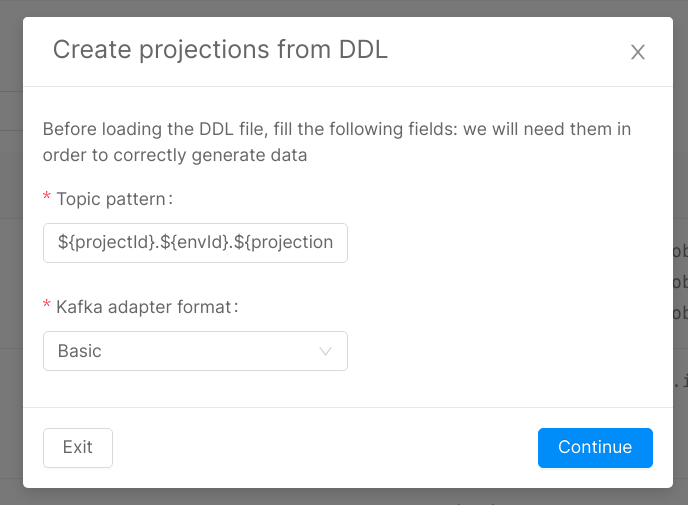
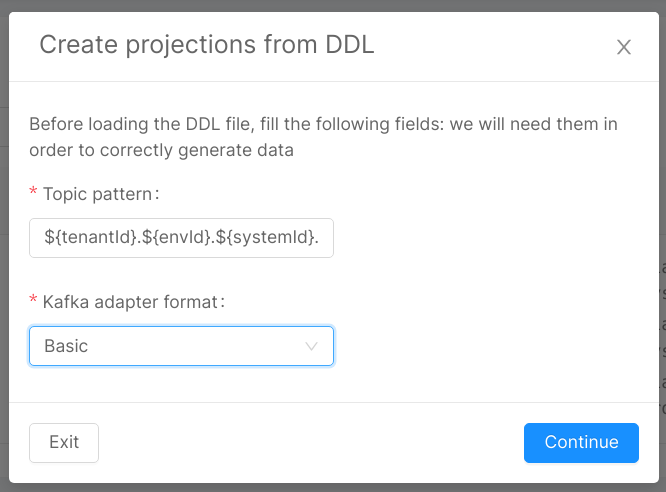
Feat/fast data topic naming convention

Changed region(s): [[0.0, 0.0, 1.0, 1.0]]

diff --git a/docs/fast_data/setup_fast_data.md b/docs/fast_data/setup_fast_data.md
@@ -33,6 +33,47 @@ Provided that the client's **CDC** (Change Data Capture) supports Snappy compres
 Snappy, like every other compression and decompression algorithm, will always increase the delay between production and consumption of the message, hence it is not advised for strong real-time relying applications; on the other hand it is well recommended for initial loads which tend to be a lot heavier.
 :::
 
+## Topic naming convention
+
+In order to work properly, the Fast Data infrastructure will need multiple Kafka topics, hence following a naming convention is useful.
+The following is the naming convention we recommend in order to work with the Fast Data and its tools properly.
+
+### Ingestion topic from CDC to Mongo
+
+**producer**: the system producing its own events
+
+`<tenant>.<environment>.<source-system>.<projection>.ingestion`
+
+An example:
+
+```sh
+test-tenant.PROD.system-name.test-projection.ingestion
+```
+
+### Topic for Single View Creator trigger
+
+**producer**: Real Time Updater
+
+`<tenant>.<environment>.<mongo-database>.<single-view-name>.sv-trigger`
+
+An example:
+
+```sh
+test-tenant.PROD.restaurants-db.reviews-sv.sv-trigger
+```
+
+### Topic for verified update of the Single View
+
+**producer**: Single View Creator
+
+`<tenant>.<environment>.<mongo-database>.<single-view-name>.sv-update`
+
+An example:
+
+```sh
+test-tenant.PROD.restaurants-db.reviews-sv.sv-update
+```
+
 ## Create topics
 
 You can create a topic using Kafka cli, or if you use the Confluent Cloud you can use the user interface.
@@ -54,7 +95,7 @@ If you don't have a cluster, create one following this [documentation](https://d
 On the left menu, click on `Topics` and `Add a topic` button. Insert the topic name and the number of partitions required. Here you could create with defaults or customize topic settings.
 
 :::info
-We suggest to use a topic name like `project.environment.projection-json`
+We suggest to use a topic name like `tenant.environment.system.projection.ingestion`
 :::
 
 > *Note*: if this documentation seems outdated, follow the [official one](https://docs.confluent.io/cloud/current/client-apps/topics/manage.html#create-a-topic)
@@ -87,7 +128,7 @@ First, you should [install the Confluent Cli](https://docs.confluent.io/ccloud-c
 Once installed, to create a new topic (with some custom config) run:
 
 ```sh
-ccloud kafka topic create --partitions 3 --cluster CLUSTER_ID --config cleanup.policy=compact --config retention.ms=2592000000 'project.environment.projection-json';
+ccloud kafka topic create --partitions 3 --cluster CLUSTER_ID --config cleanup.policy=compact --config retention.ms=2592000000 'tenant.environment.system.projection.ingestion';
 ```
 
 You should create a service account if you have not already [following this guide](#create-service-account)
@@ -95,8 +136,8 @@ You should create a service account if you have not already [following this guid
 After the creation of the topic, you can associate the ACL to a service account:
 
 ```sh
-ccloud kafka acl create --allow --service-account SERVICE_ACCOUNT --operation WRITE --topic 'project.environment.projection-json' --cluster CLUSTER_ID;
-ccloud kafka acl create --allow --service-account SERVICE_ACCOUNT --operation READ --topic 'project.environment.projection-json' --cluster CLUSTER_ID;
+ccloud kafka acl create --allow --service-account SERVICE_ACCOUNT --operation WRITE --topic 'tenant.environment.system.projection.ingestion' --cluster CLUSTER_ID;
+ccloud kafka acl create --allow --service-account SERVICE_ACCOUNT --operation READ --topic 'tenant.environment.system.projection.ingestion' --cluster CLUSTER_ID;
 ```
 
 ## Set up a Kafka consumer

diff --git a/docs/fast_data/real_time_updater/manual_configuration.md b/docs/fast_data/real_time_updater/manual_configuration.md
@@ -311,7 +311,7 @@ where:
 
 - `MY_PROJECTION` is the name of the collection whose topic has received the message from the CDC.
 - `MY_SINGLE_VIEW` is the single view that have to be updated
-- `MY_TOPIC` is the topic where the projection change need to be sent
+- `MY_TOPIC` is the topic where the projection change need to be sent (for further information about the naming convention adopted for this topic, [click here](../setup_fast_data.md#topic-for-svc-trigger))
 
 Example:
 
@@ -320,21 +320,21 @@ Example:
     "registry-json": {
         "projectionChanges": {
             "sv_pointofsale": {
-                "topic": "my-project.development.sv-pointofsale-pc-json",
+                "topic": "my-tenant.development.my-database.sv-pointofsale.sv-trigger",
             }
         }
     },
     "another-projection": {
         "projectionChanges": {
             "sv_customer": {
-                "topic": "my-project.development.sv-customer-pc-json"
+                "topic": "my-tenant.development.my-database.sv-customer.sv-trigger"
             }
         }
     }
 }
 ```
 
-When a message about `registry-json` happens, the projection changes will be saved on mongo and it will be sent to the Kafka topic `my-project.development.sv-pointofsale-pc-json` as well.
+When a message about `registry-json` happens, the projection changes will be saved on mongo and it will be sent to the Kafka topic `my-tenant.development.my-database.sv-pointofsale.sv-trigger` as well.
 
 ## Kafka projection updates configuration
 
@@ -471,7 +471,7 @@ Example:
     },
     "changes": [{
         "state": "NEW",
-        "topic": "my-topic.development.foobar-json",
+        "topic": "my-topic.development.my-system.my-projection.ingestion",
         "partition": 0,
         "timestamp": "2021-11-19T16:22:07.031Z",
         "offset": "14",
@@ -508,7 +508,7 @@ Example:
     "timestamp": "2021-11-19T16:22:07.031Z",
     "updatedAt": "2021-11-19T16:22:07.052Z",
     "__internal__kafkaInfo": {
-        "topic": "my-topic.development.foobar-json",
+        "topic": "my-topic.development.my-system.my-projection.ingestion",
         "partition": 0,
         "timestamp": "2021-11-19T16:22:07.031Z",
         "offset": "14",

diff --git a/docs/fast_data/create_projection.md b/docs/fast_data/create_projection.md
@@ -52,10 +52,11 @@ Here, you can modify the default name of the topics per environment.
 The topics names are pre-compiled with our suggested name:
 
 ```txt
-projectId.environmentId.projectionName-json
+tenantId.environmentId.systemId.projectionName.ingestion
 ```
 
-where `projectId`, `environmentId` and `projectionName` are filled with, respectively, the id of the console project, the id of the associated environment and the name of the projection.
+where `tenantId`, `environmentId`, `systemId` and `projectionName` are filled with, respectively, the id of the tenant of the project, the id of the associated environment, the id of the system which owns the projection and the name of the projection.
+For more information about the naming convention used for the topics, [click here](./setup_fast_data.md#ingestion-topic-from-cdc-to-mongo)
 
 ### Projection metadata
 
@@ -168,11 +169,13 @@ On the first page, you will need to provide two information:
 
 The topic pattern is a template string that will be interpolated for each combination of environment and projection to generate the topic prefixes. The syntax used is the same of the intuitive [javascript template strings](https://developer.mozilla.org/en-US/docs/Web/JavaScript/Reference/Template_literals), with the following variables:
 
+* tenantId
 * projectId
+* systemId
 * projectionId
 * envId
 
-The default value for ths input is the same as the default used by the Console, which is `${projectId}.${envId}.${projectionId}-json`.
+The default value for ths input is the same as the default used by the Console, which is `${tenantId}.${envId}.${systemId}.${projectionId}.ingestion`.
 
 ##### Kafka adapter format
 

diff --git a/docs/development_suite/api-console/api-design/rbac_policies.md b/docs/development_suite/api-console/api-design/rbac_policies.md
@@ -25,7 +25,8 @@ package policies
 
 ## Policies input data
 
-In your policies you can use the rego `input` variable, that is structured as follows:
+In your policies you can use the rego `input` variable. This variable contains all the user information as well as the information of the request and the eventual response if configured.
+Its structure is as follows:
 
 ```json
 {
@@ -39,6 +40,7 @@ In your policies you can use the rego `input` variable, that is structured as fo
     "query":   Object {
       String: Array[String]
     },
+    "body": Object{},
   },
   "response": {
     "body": Object{}
@@ -54,6 +56,9 @@ In your policies you can use the rego `input` variable, that is structured as fo
   "clientType": String
 }
 ```
+:::info
+  The request body is available only for requests with method: `POST` `PATCH` `PUT` `DELETE` with `application/json` Content Type. The response body instead is set only if properly configured  in the `X-permssion` object.
+:::
 
 :::info
 `bindings` and `roles` object contain only data relative to the user that is making the request **if and only if** is authenticated. Otherwise those two object will be present but empty. For the structure of the two object please refer to the [RBAC data models](./rbac#rbac-storage) section.

diff --git a/docs/fast_data/single_view_creator/manual_configuration.md b/docs/fast_data/single_view_creator/manual_configuration.md
@@ -237,7 +237,7 @@ For both functions, the output is composed of an object containing two fields:
 - `old` which contains the old Single View
 - `new` which contains the new Single View
 
-These values will be the respectively the `before` and `after` of the message sent to the `KAFKA_BA_TOPIC` topic, that is the topic responsible for tracking any result of the Single View creator.
+These values will be the respectively the `before` and `after` of the message sent to the `KAFKA_BA_TOPIC` topic, that is the topic responsible for tracking any result of the Single View creator. The naming convention for this topic can be found [here](../setup_fast_data.md#topic-for-verified-update-of-the-sv).
 
 ```js
 async function upsertSingleViewFunction(

diff --git a/docs/release_notes/RN_v8-8/platform_8-8-1_releasenotes.md b/docs/release_notes/RN_v8-8/platform_8-8-1_releasenotes.md
@@ -1,0 +1,24 @@
+---
+id: v8.8.1
+title: Version v8.8.1 Release Notes
+sidebar_label: v8.8.1
+image: "img/release-note-link-preview.png"
+---
+
+_March 29, 2022_
+
+## Console
+
+### Bug Fix
+
+#### Favorite section
+
+A bug affecting the favorite section selection in the candy menu has been resolved, allowing users to select all the pages.
+
+#### Project Card displaying error
+
+On certain projects the Project cards may display error instead of the environment pod status, the bug has been resolved and now metrics are properly displayed
+
+## How to update your Console
+
+For on-premise Console installations, please contact your Mia Platform referent to know how to use the `Helm chart version 5.12.3`.
